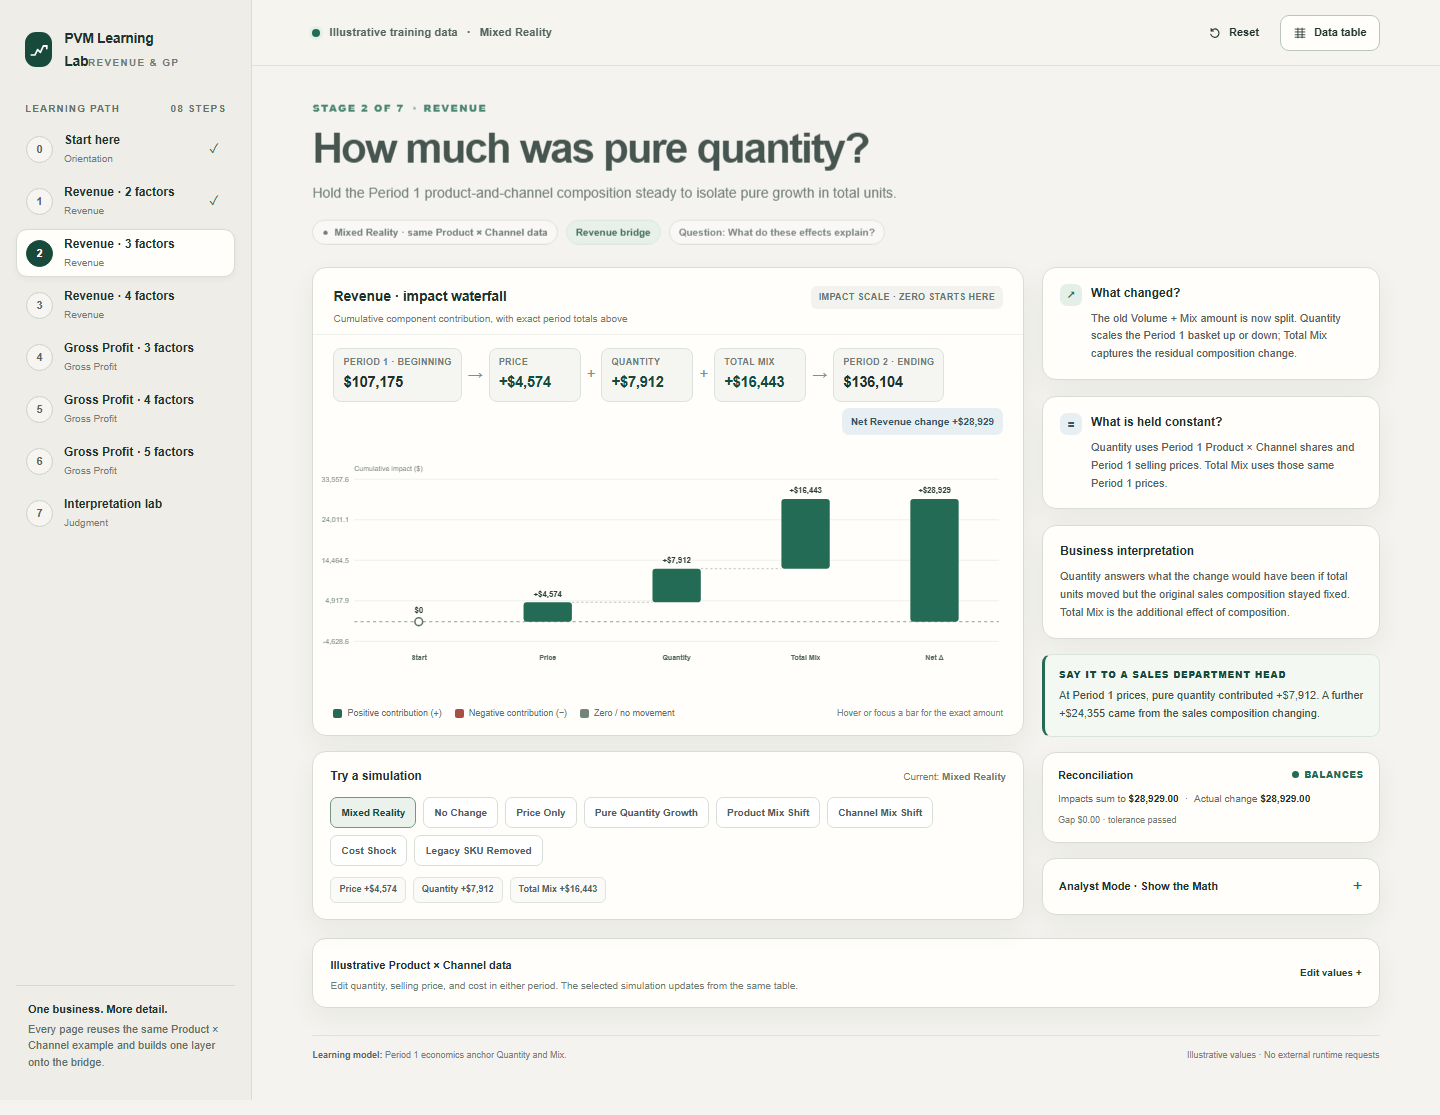
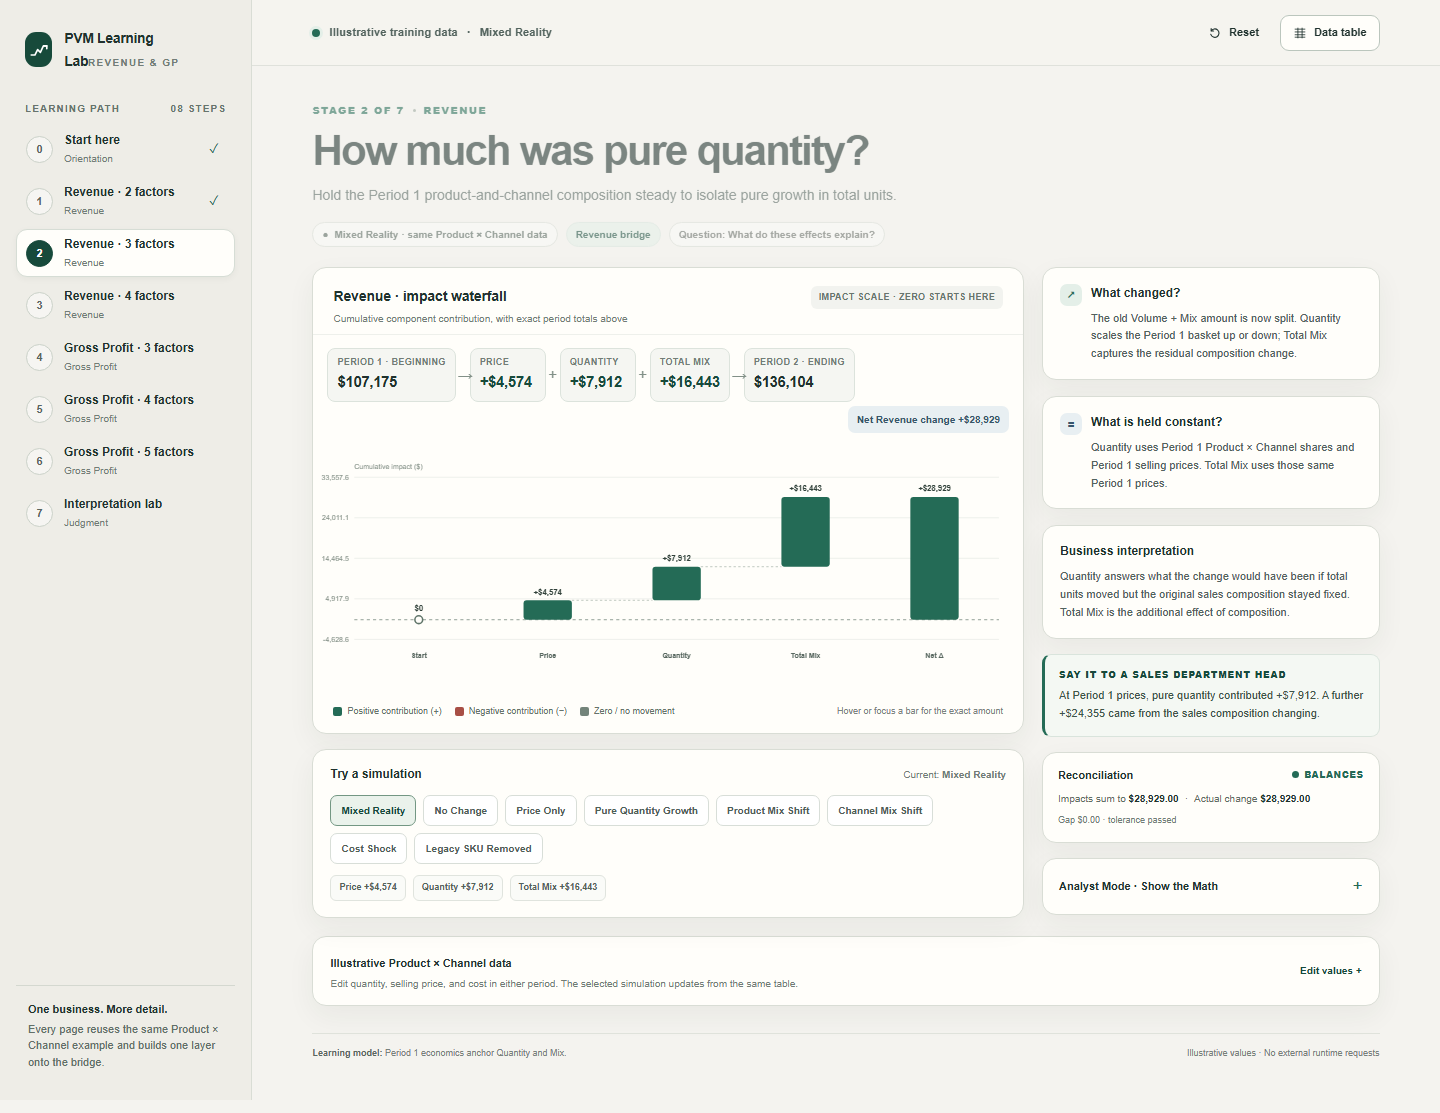
Polish PVM bridge and record design review

diff --git a/index.html b/index.html
@@ -123,12 +123,15 @@
     .chart-title { margin: 0; font-size: 14px; font-weight: 750; letter-spacing: -.01em; }
     .chart-subtitle { margin: 4px 0 0; color: var(--muted); font-size: 10px; }
     .chart-scale { flex: none; padding: 5px 8px; border-radius: 6px; background: #f2f3ef; color: #68756e; font-size: 9px; font-weight: 700; letter-spacing: .04em; text-transform: uppercase; }
-    .bridge-equation { display: flex; flex-wrap: wrap; align-items: center; gap: 6px; padding: 13px 20px 12px; border-top: 1px solid #eef0eb; }
-    .bridge-endpoint { min-width: 105px; padding: 7px 9px; border: 1px solid #dce3dc; border-radius: 8px; background: #f5f6f2; }
+    .bridge-equation { display: flex; flex-wrap: wrap; align-items: center; gap: 4px; padding: 13px 14px 12px; border-top: 1px solid #eef0eb; }
+    .bridge-endpoint { position: relative; min-width: 105px; padding: 7px 9px; border: 1px solid #dce3dc; border-radius: 8px; background: #f5f6f2; }
+    .bridge-endpoint.bridge-period { min-width: 90px; }
+    .bridge-endpoint.bridge-impact { min-width: 76px; }
+    .bridge-endpoint.with-op { margin-left: 10px; }
+    .equation-op { position: absolute; top: 50%; left: -13px; width: 10px; transform: translateY(-50%); color: #829087; font-size: 15px; text-align: center; }
     .bridge-endpoint:last-child { background: #eef4ef; border-color: #d5e4d8; }
     .bridge-endpoint small { display: block; color: var(--muted); font-size: 9px; font-weight: 700; letter-spacing: .04em; text-transform: uppercase; }
     .bridge-endpoint strong { display: block; margin-top: 2px; font-size: 15px; font-variant-numeric: tabular-nums; letter-spacing: -.025em; }
-    .equation-arrow { color: #829087; font-size: 15px; }
     .delta-chip { margin-left: auto; padding: 6px 9px; border-radius: 7px; background: var(--navy-wash); color: var(--navy); font-size: 10px; font-weight: 750; font-variant-numeric: tabular-nums; }
     .positive { color: var(--green-deep); }
     .negative { color: var(--red); }
@@ -323,7 +326,7 @@
       .bridge-equation { gap: 5px; padding: 10px 12px; }
       .bridge-endpoint { min-width: 0; flex: 1 1 90px; padding: 6px 7px; }
       .bridge-endpoint strong { font-size: 13px; }
-      .equation-arrow { font-size: 12px; }
+      .equation-op { font-size: 12px; }
       .delta-chip { flex: 1 0 100%; margin: 1px 0 0; text-align: center; }
       .chart-wrap { min-height: 220px; padding-right: 0; }
       .waterfall { min-height: 220px; }
@@ -785,7 +788,7 @@
       const controls=PRESETS.map(name=>`<button class="preset" type="button" data-preset="${esc(name)}" aria-pressed="${scenario===name}">${esc(name)}</button>`).join("");
       const math=analystPanel(stage,calc);
       const metrics=stage.components.map(([key,label])=>`<span class="fact-pill ${valueClass(impactSet[key])}">${esc(label)} ${esc(signed(impactSet[key]))}</span>`).join("");
-      const bridge=stage.components.map(([key,label])=>`<span class="bridge-endpoint" style="min-width:92px"><small>${esc(label)}</small><strong class="${valueClass(impactSet[key])}">${esc(signed(impactSet[key]))}</strong></span>`).join(`<span class="equation-arrow" aria-hidden="true">+</span>`);
+      const bridge=stage.components.map(([key,label],index)=>`<span class="bridge-endpoint bridge-impact with-op"><span class="equation-op" aria-hidden="true">${index===0?"→":"+"}</span><small>${esc(label)}</small><strong class="${valueClass(impactSet[key])}">${esc(signed(impactSet[key]))}</strong></span>`).join("");
       const vals={delta:endpointValue.delta,price:impactSet.price,mix:impactSet.volumeMix,quantity:impactSet.quantity,channel:impactSet.channelMix,product:impactSet.productMix,cost:impactSet.cost};
       const answer=replaceTemplate(stage.stakeholder,vals);
       const caution=calc.flags.reason?`<p class="caveat" role="note"><strong>Data flag:</strong> ${esc(calc.flags.reason)}</p>`:calc.flags.discontinued.length?`<p class="caveat" role="note"><strong>Data flag:</strong> Discontinued items are present: ${esc(calc.flags.discontinued.join(", "))}. Their current-period share is zero; interpret Product Mix with care.</p>`:"";
@@ -795,9 +798,9 @@
             <section class="chart-panel panel" aria-label="${esc(endpoint(stage))} impact waterfall">
               <div class="chart-head"><div><h2 class="chart-title">${esc(endpoint(stage))} · impact waterfall</h2><p class="chart-subtitle">Cumulative component contribution, with exact period totals above</p></div><span class="chart-scale">Impact scale · zero starts here</span></div>
               <div class="bridge-equation" aria-label="Beginning value, impact components, ending value">
-                <span class="bridge-endpoint"><small>Period 1 · Beginning</small><strong>${money(endpointValue.begin)}</strong></span><span class="equation-arrow" aria-hidden="true">→</span>
+                <span class="bridge-endpoint bridge-period"><small>Period 1 · Beginning</small><strong>${money(endpointValue.begin)}</strong></span>
                 ${bridge}
-                <span class="equation-arrow" aria-hidden="true">→</span><span class="bridge-endpoint"><small>Period 2 · Ending</small><strong>${money(endpointValue.end)}</strong></span>
+                <span class="bridge-endpoint bridge-period with-op"><span class="equation-op" aria-hidden="true">→</span><small>Period 2 · Ending</small><strong>${money(endpointValue.end)}</strong></span>
                 <span class="delta-chip">Net ${endpoint(stage)} change ${signed(endpointValue.delta)}</span>
               </div>
               <div class="chart-wrap" id="chartWrap">${renderWaterfall(stage,calc)}</div>

diff --git a/CANVA_REVIEW.md b/CANVA_REVIEW.md
@@ -1,0 +1,16 @@
+# Visual review
+
+## Canva import
+
+[PVM Learning Lab — Visual Review](https://www.canva.com/d/6IPkLU4fYNawy32) was created from the public site for review. Canva exposed an empty page and no readable text content, so the imported design could not support a reliable element-level critique. The read-only review transaction was cancelled without changes.
+
+## Browser visual review
+
+I reviewed the actual app in Edge at desktop, tablet, and mobile sizes. The screenshots in [QA_REPORT.md](QA_REPORT.md) show the relevant pages.
+
+- Stage navigation and the stage title make the learning sequence and current task easy to locate.
+- The waterfall keeps exact period totals beside a zero-start impact scale, while the interpretation cards explain the assumptions and business meaning.
+- Mobile stacks the chart, simulation controls, explanations, and reconciliation without horizontal overflow.
+- In the full five-factor bridge, a connector could wrap onto the preceding line by itself. Each arrow or plus sign now stays with the value card it introduces, preserving the reading order at narrow widths.
+
+The browser review found no other high-value visual changes. The empty Canva import supplied no additional feedback to apply.

diff --git a/HANDOFF.md b/HANDOFF.md
@@ -52,7 +52,7 @@ Real analyses should separately review new and discontinued products, channels w
 
 The interface uses a warm paper background, dark ink, restrained positive/negative colors, Inter-first local system sans fallbacks, strong type hierarchy, persistent learning navigation, and a cumulative SVG impact waterfall. Exact period totals sit beside a zero-start impact bridge so the scale remains legible without hiding the full business values. Signs, labels, and placement carry meaning in addition to color. Motion respects `prefers-reduced-motion`; controls use native semantic buttons, details, selects, labels, and visible focus states. All CSS and JavaScript are inline in `index.html`; no web font is downloaded.
 
-The Figma foundation specimen and the visual review boundary for the free plan are recorded in [FIGMA_REVIEW.md](FIGMA_REVIEW.md).
+The Figma foundation specimen and the visual review boundary for the free plan are recorded in [FIGMA_REVIEW.md](FIGMA_REVIEW.md). Browser and Canva review findings are in [CANVA_REVIEW.md](CANVA_REVIEW.md).
 
 ## Updating the illustrative dataset
 

diff --git a/README.md b/README.md
@@ -10,7 +10,7 @@ An interactive, illustrative learning lab for Revenue and Gross Profit Price-Vol
 - A stakeholder interpretation lab with All-SKU and Focus-SKU comparison.
 - No external runtime libraries, fonts, APIs, or network requests.
 
-The visual foundation and the free-plan Figma review are documented in [FIGMA_REVIEW.md](FIGMA_REVIEW.md) and the [Figma file](https://www.figma.com/design/1NY05JxCMhSvaeRCOwb2kL).
+The visual foundation and review findings are documented in [FIGMA_REVIEW.md](FIGMA_REVIEW.md), [CANVA_REVIEW.md](CANVA_REVIEW.md), the [Figma file](https://www.figma.com/design/1NY05JxCMhSvaeRCOwb2kL), and the [Canva review copy](https://www.canva.com/d/6IPkLU4fYNawy32).
 
 Revenue mix uses Period 1 selling price. Gross Profit mix uses Period 1 unit gross margin. The detailed split applies Channel Mix first, followed by Product Mix within Channel; that order determines the individual mix attribution.
 
